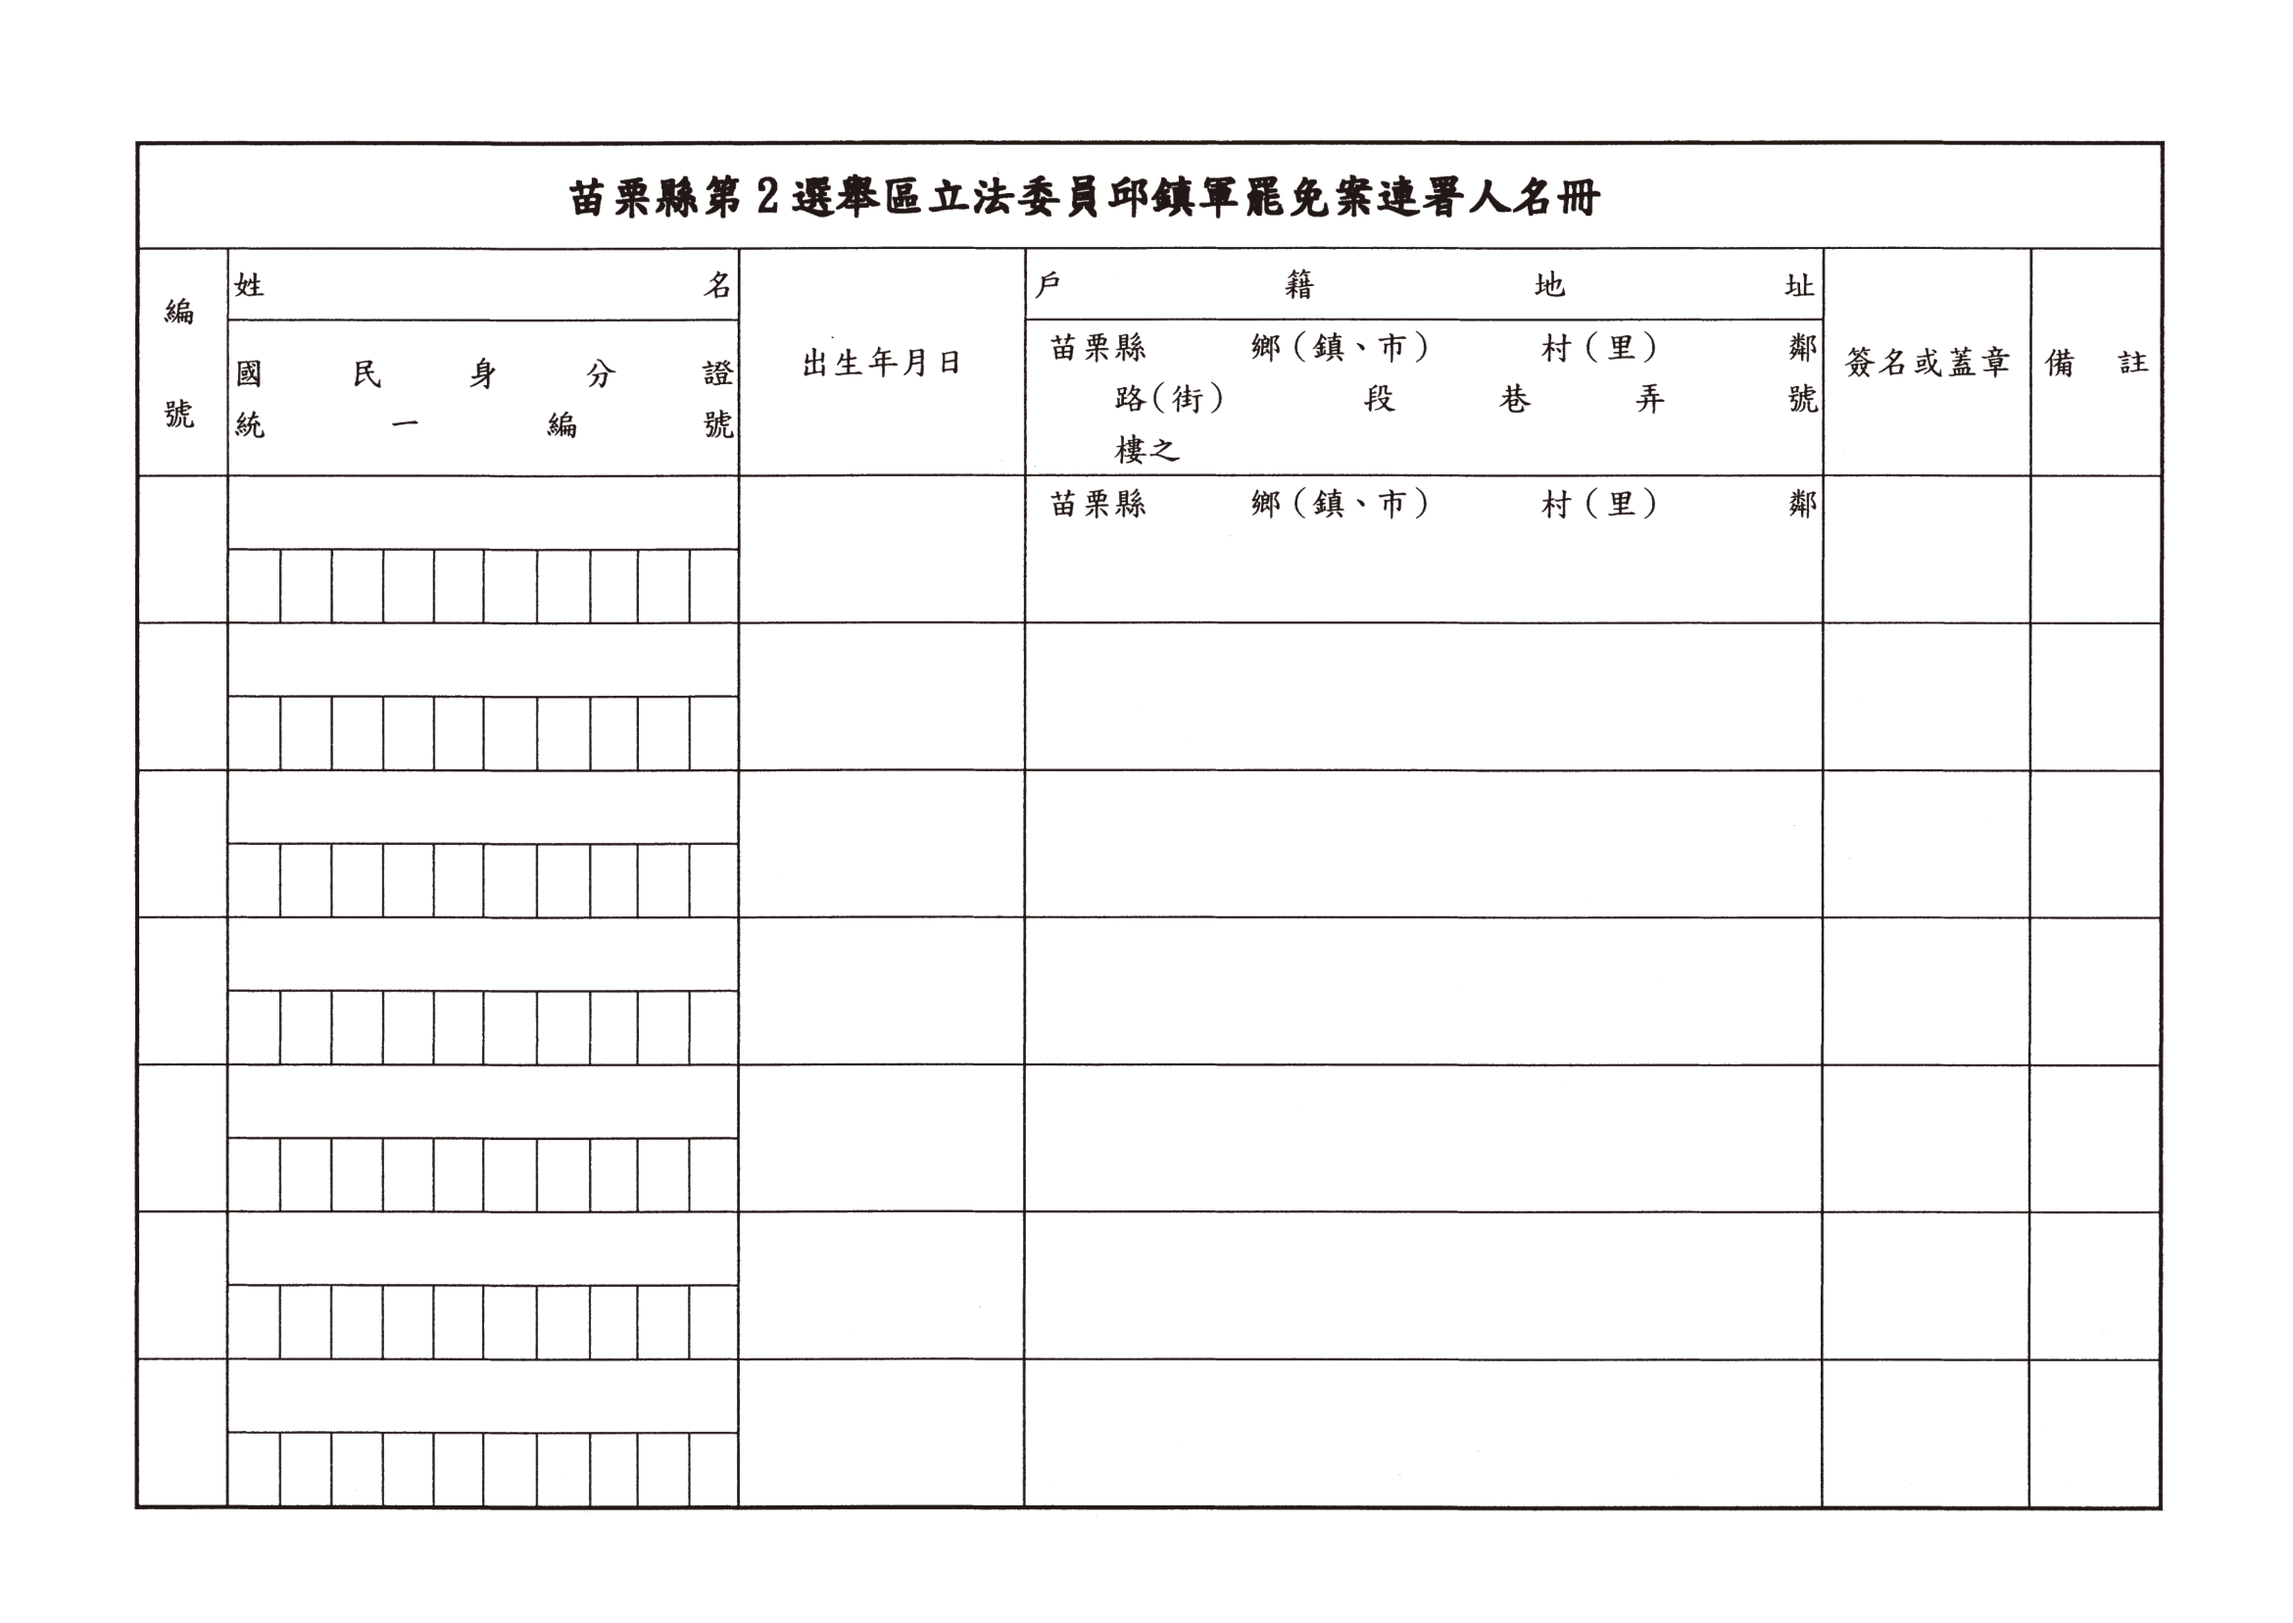
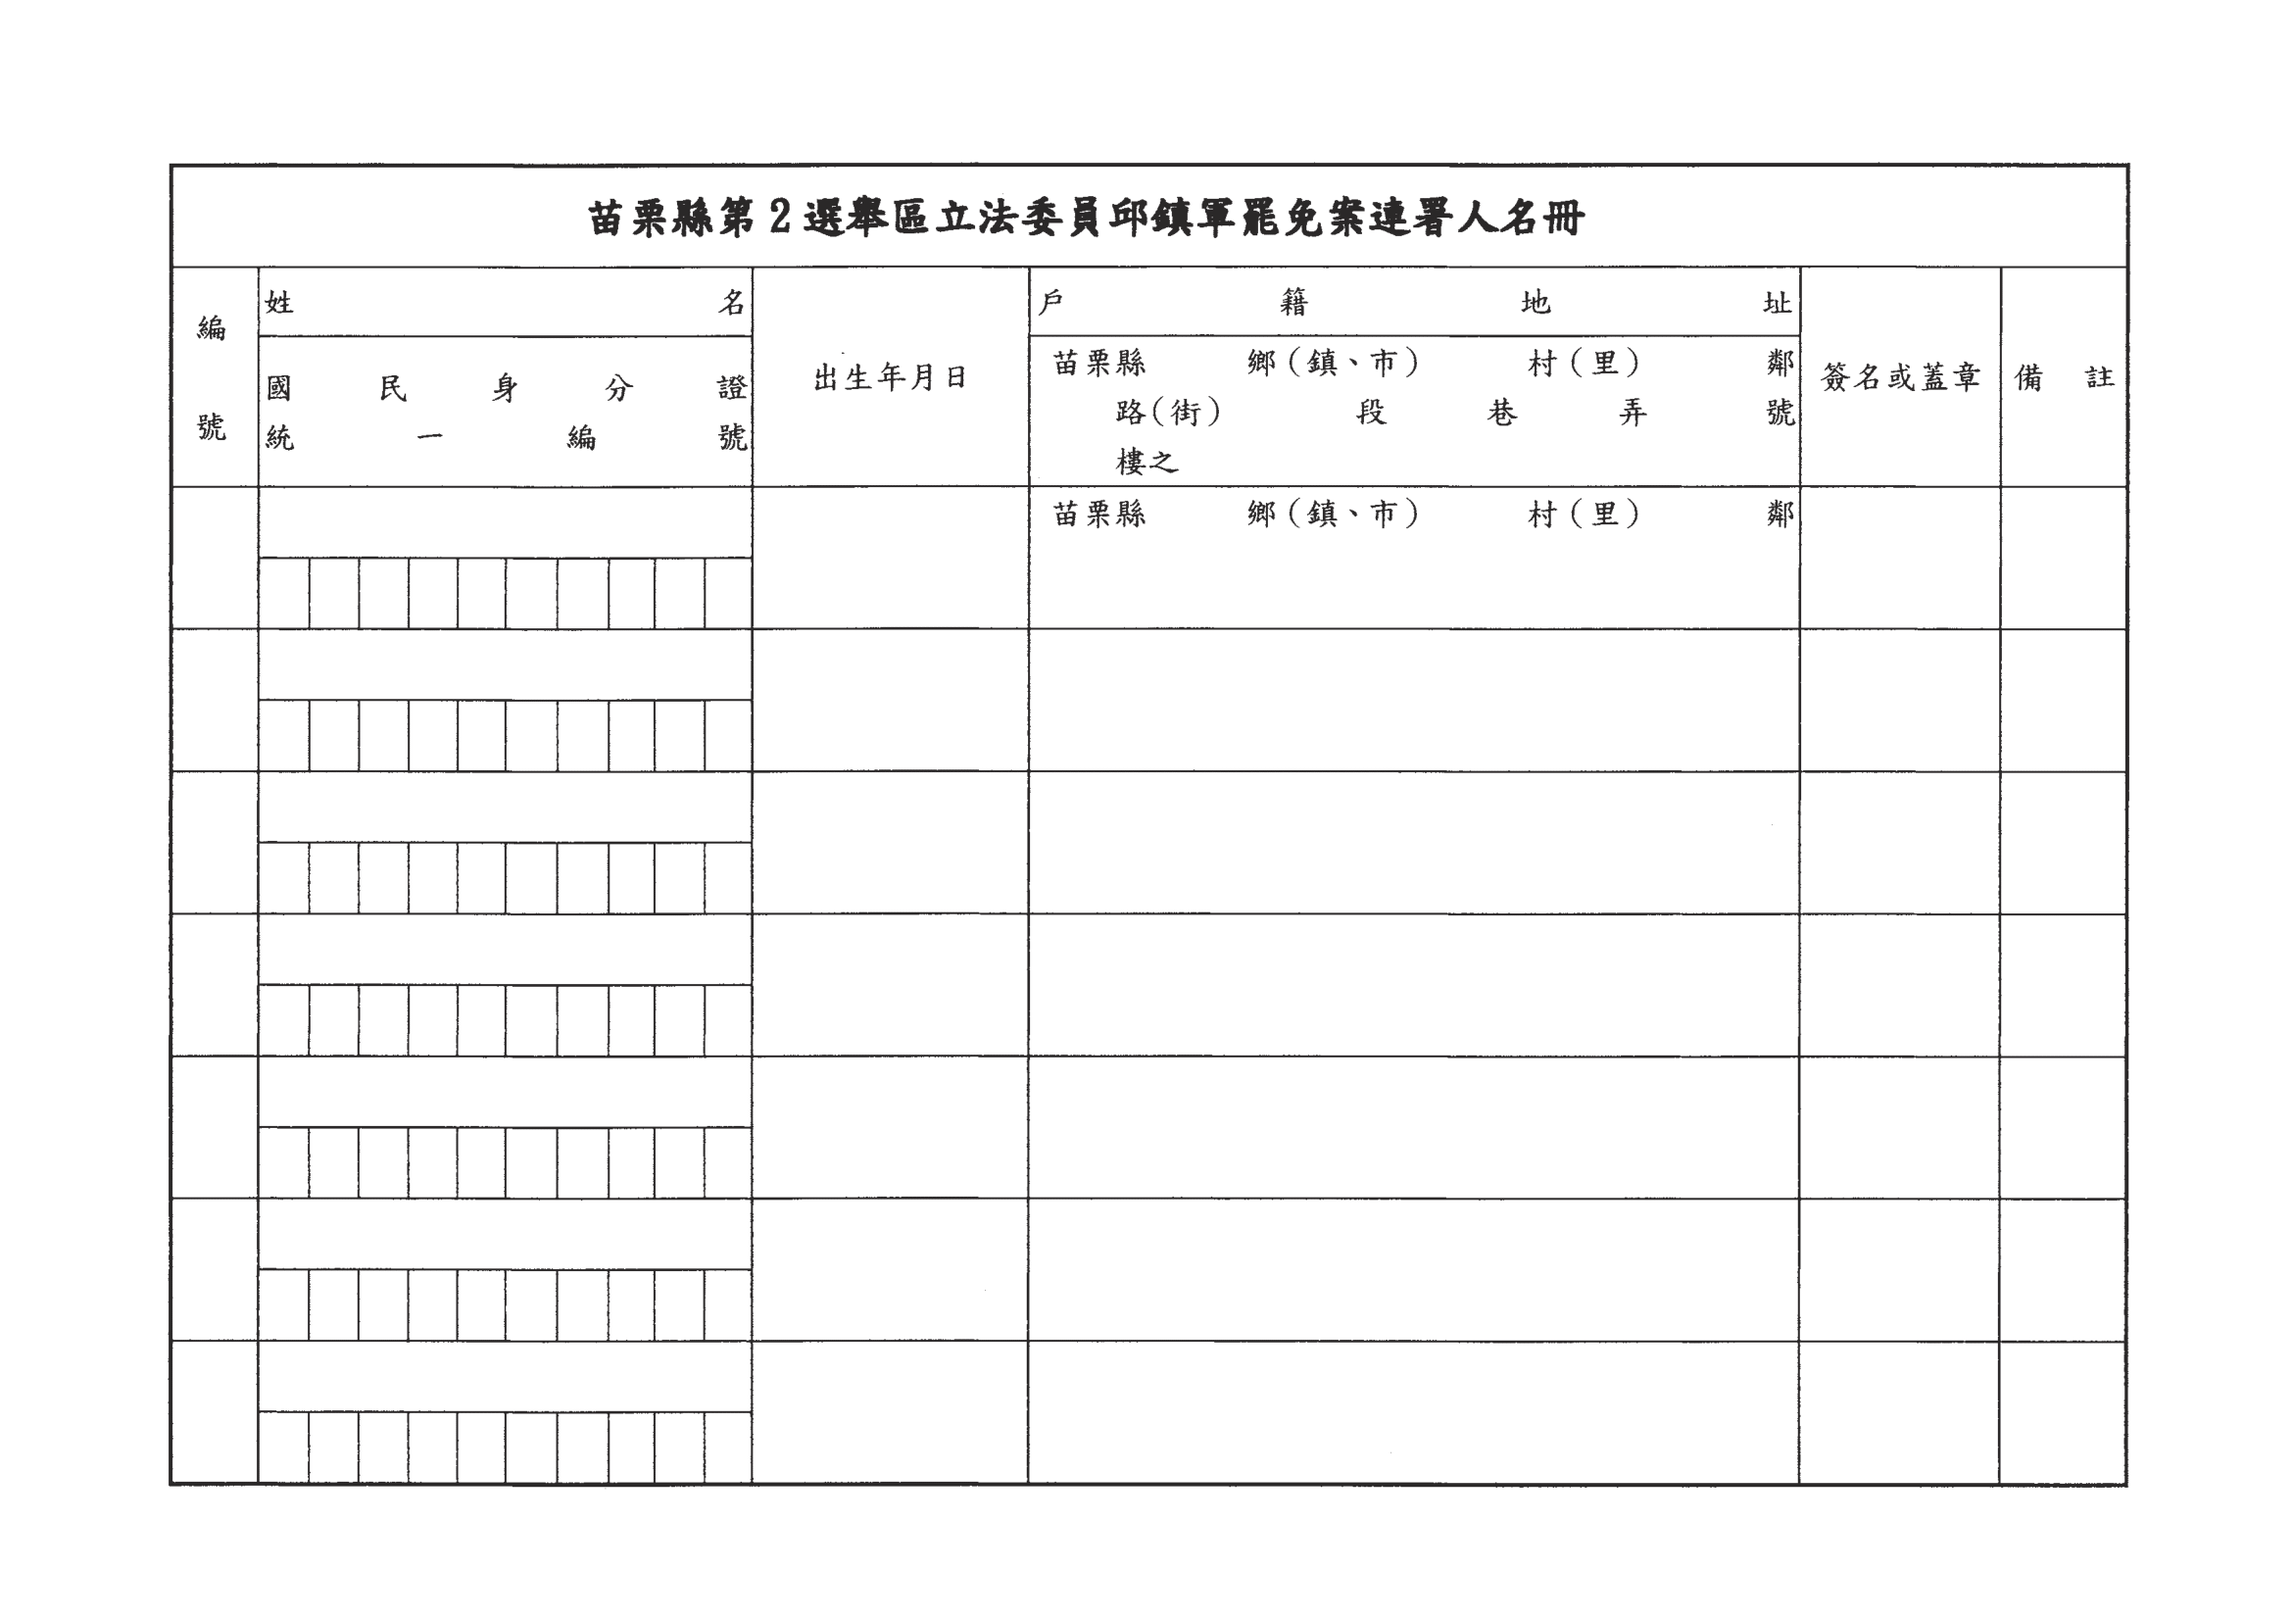
update miaoli constituencies

diff --git a/templates/stage-2-邱鎮軍.html b/templates/stage-2-邱鎮軍.html
@@ -10,19 +10,19 @@
 		<div class="img-container">
 			<img src="{{.BaseURL}}/assets/images/stage-2-{{.PoliticianName}}.png">
 		</div>
-		<div class="inputField center md" style="left:21.4%; top:29.2%; letter-spacing:0.5em">
+		<div class="inputField center md" style="left:22.4%; top:29.8%; letter-spacing:0.5em">
 			{{.Name}}
 		</div>
-		<div class="inputField center md" style="left:21.7%; top:34%; letter-spacing:0.76em">
+		<div class="inputField center md" style="left:22.6%; top:34.5%; letter-spacing:0.71em">
 			{{.IdNumber.D0}}{{.IdNumber.D1}}{{.IdNumber.D2}}{{.IdNumber.D3}}{{.IdNumber.D4}}{{.IdNumber.D5}}{{.IdNumber.D6}}{{.IdNumber.D7}}{{.IdNumber.D8}}{{.IdNumber.D9}}
 		</div>
-		<div class="inputField center sm" style="left:38.5%; top:33%; letter-spacing:0.02em">
+		<div class="inputField center sm" style="left:38.9%; top:33.4%; letter-spacing:0.02em">
 			{{.BirthYear}} 年 {{.BirthMonth}} 月 {{.BirthDate}} 日
 		</div>
-		<div class="inputField center xsm whiteBg" style="left:62.2%; top:29.4%; width:34.2%; height:8.8%;">
+		<div class="inputField center xsm whiteBg" style="left:61.7%; top:30.2%; width:33.2%; height:8.4%;">
 			{{.Address}}
 		</div>
-		<div class="whereToSign" style="left:84.1%; top:33.8%; width:7.9%; height:7.8%;"></div>
+		<div class="whereToSign" style="left:82.9%; top:34.4%; width:7.7%; height:7.5%;"></div>
 	</div>
 </body>
 </html>

diff --git a/templates/stage-2-陳超明.html b/templates/stage-2-陳超明.html
@@ -10,19 +10,19 @@
 		<div class="img-container">
 			<img src="{{.BaseURL}}/assets/images/stage-2-{{.PoliticianName}}.png">
 		</div>
-		<div class="inputField center md" style="left:21.4%; top:29.2%; letter-spacing:0.5em">
+		<div class="inputField center md" style="left:22.4%; top:29.8%; letter-spacing:0.5em">
 			{{.Name}}
 		</div>
-		<div class="inputField center md" style="left:21.7%; top:34%; letter-spacing:0.76em">
+		<div class="inputField center md" style="left:22.6%; top:34.5%; letter-spacing:0.71em">
 			{{.IdNumber.D0}}{{.IdNumber.D1}}{{.IdNumber.D2}}{{.IdNumber.D3}}{{.IdNumber.D4}}{{.IdNumber.D5}}{{.IdNumber.D6}}{{.IdNumber.D7}}{{.IdNumber.D8}}{{.IdNumber.D9}}
 		</div>
-		<div class="inputField center sm" style="left:38.5%; top:33%; letter-spacing:0.02em">
+		<div class="inputField center sm" style="left:38.9%; top:33.4%; letter-spacing:0.02em">
 			{{.BirthYear}} 年 {{.BirthMonth}} 月 {{.BirthDate}} 日
 		</div>
-		<div class="inputField center xsm whiteBg" style="left:62.2%; top:29.4%; width:34.2%; height:8.8%;">
+		<div class="inputField center xsm whiteBg" style="left:61.7%; top:30.2%; width:33.2%; height:8.4%;">
 			{{.Address}}
 		</div>
-		<div class="whereToSign" style="left:84%; top:33.8%; width:7.9%; height:7.8%;"></div>
+		<div class="whereToSign" style="left:82.8%; top:34.4%; width:7.7%; height:7.5%;"></div>
 	</div>
 </body>
 </html>
